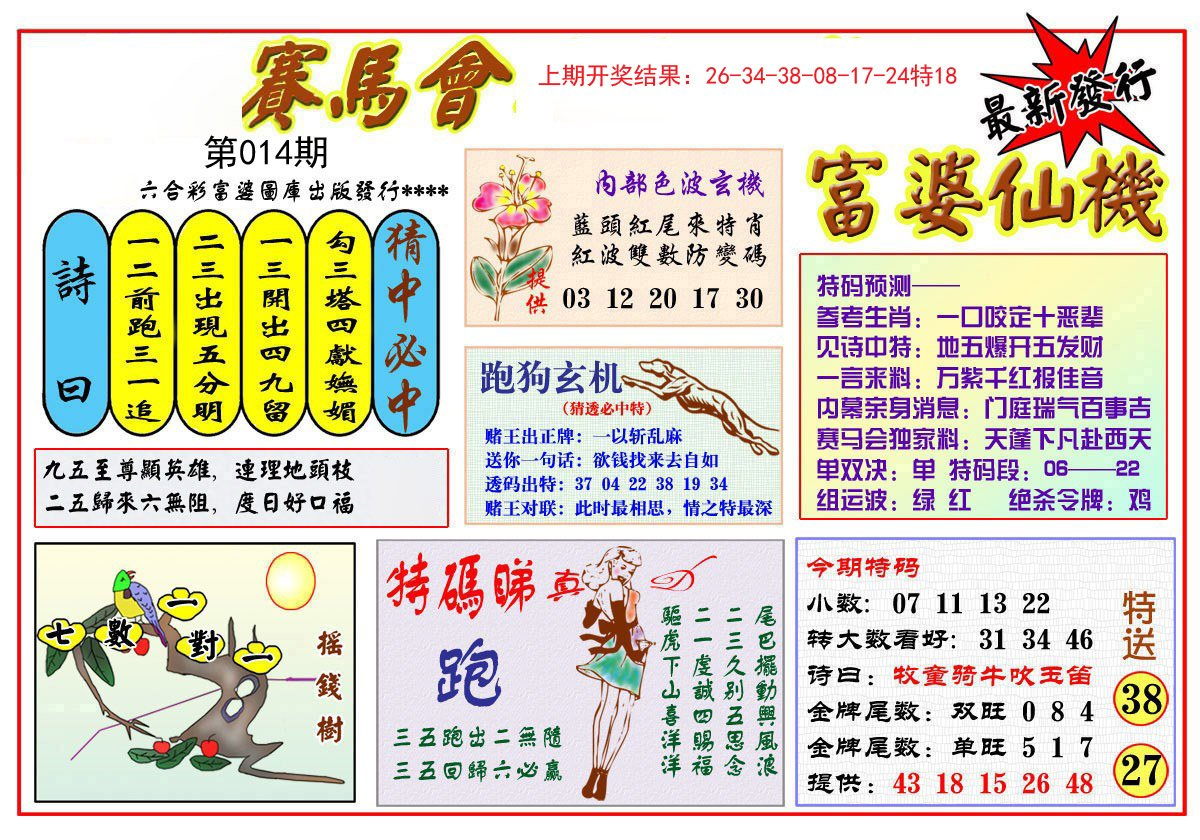
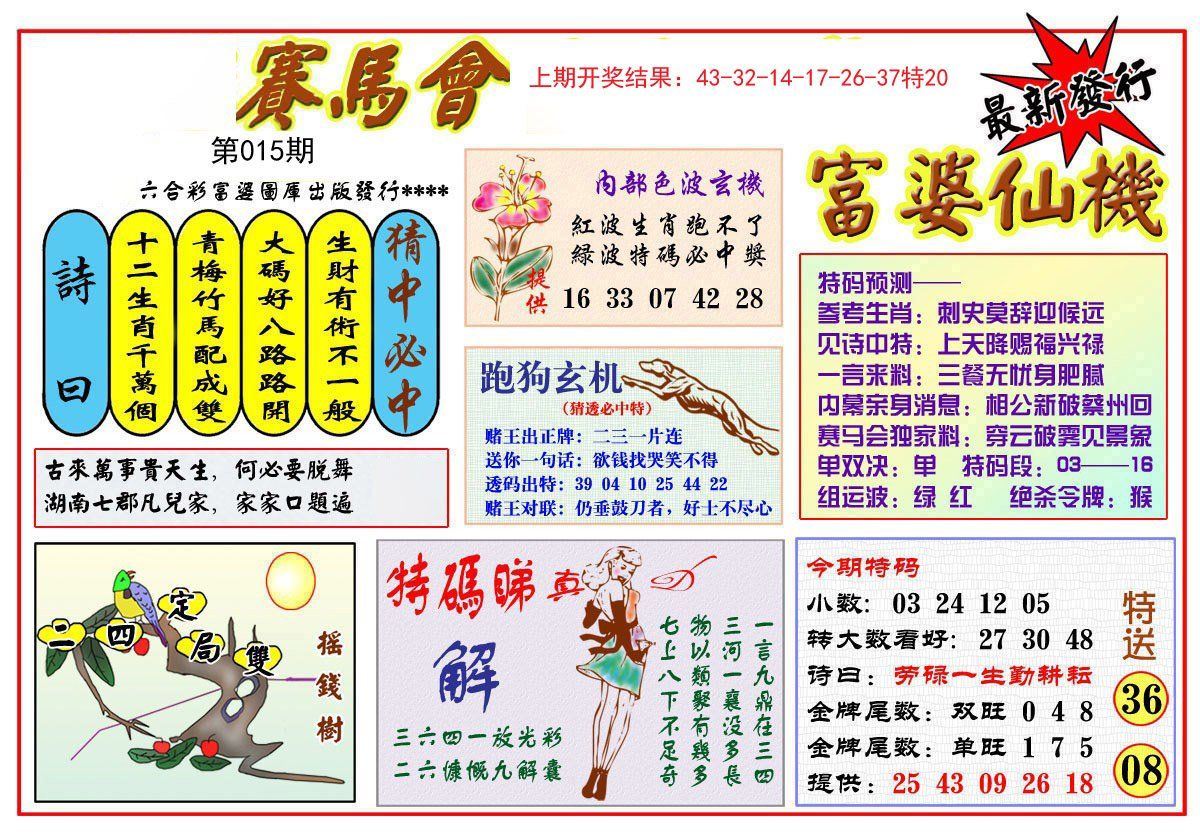
Update:  2024.01.15 12:22:49

diff --git a/Script/Src/xjw/杀两肖图.js b/Script/Src/xjw/杀两肖图.js
@@ -35,8 +35,8 @@ document.writeln("	");
 document.writeln("			<tr style=\'box-sizing: border-box;\'>");
 document.writeln("			<td height=\'40\' style=\'box-sizing: border-box;\'>");
 document.writeln("			");
-document.writeln("<a target=\'_blank\' href=\'https://49080.com/#/picture/28585\'><img src=\'https://tk2.zaojiao365.net:4949/col/14/c002.jpg\'  width=\'49%\'></a>");
-document.writeln("<a target=\'_blank\' href=\'https://49080.com/#/picture/209029\'><img src=\'https://tk2.zaojiao365.net:4949/col/14/hj44.jpg\'  width=\'49%\'></a>");
+document.writeln("<a target=\'_blank\' href=\'https://49080.com/#/picture/28585\'><img src=\'https://tk2.zaojiao365.net:4949/col/15/c002.jpg\'  width=\'49%\'></a>");
+document.writeln("<a target=\'_blank\' href=\'https://49080.com/#/picture/209029\'><img src=\'https://tk2.zaojiao365.net:4949/col/15/hj44.jpg\'  width=\'49%\'></a>");
 document.writeln("		</td></tr>");
 document.writeln("		");
 document.writeln("		");
@@ -58,9 +58,32 @@ document.writeln("				<tr style=\'box-sizing: border-box;\'>");
 document.writeln("					<td height=\'40\' style=\'box-sizing: border-box;\'>");
 document.writeln("			<p align=\'center\' style=\'box-sizing: border-box; padding: 0px; margin: 0px;\'>");
 document.writeln("			<font size=\'4\' style=\'margin: 0px; padding: 0px;\'>");
-document.writeln("			014期玄机网禁两肖<font color=\'#FF0000\'>【鼠蛇】</font>特开<font color=\'#0000FF\'>？00</font>准<br>");
-document.writeln("			014期澳门杀两肖图<font color=\'#FF0000\'>【蛇兔】</font>特开<font color=\'#0000FF\'>？00</font>准<br>");
-document.writeln("			014期澳门图库禁肖<font color=\'#FF0000\'>【鸡羊】</font>特开<font color=\'#0000FF\'>？00</font>准</font></font></p></td>");
+document.writeln("			015期玄机网禁两肖<font color=\'#FF0000\'>【鸡羊】</font>特开<font color=\'#0000FF\'>？00</font>准<br>");
+document.writeln("			015期澳门杀两肖图<font color=\'#FF0000\'>【牛猪】</font>特开<font color=\'#0000FF\'>？00</font>准<br>");
+document.writeln("			015期澳门图库禁肖<font color=\'#FF0000\'>【虎猴】</font>特开<font color=\'#0000FF\'>？00</font>准</font></font></p></td>");
+document.writeln("		</tr>");
+document.writeln("<!--推广-->");
+document.writeln("				<tr style=\'box-sizing: border-box;\'>");
+document.writeln("					<td height=\'40\' style=\'box-sizing: border-box;\' bgcolor=\'#FFFF00\'>");
+document.writeln("			<p align=\'center\' style=\'box-sizing: border-box; padding: 0px; margin: 0px;\'>");
+document.writeln("			<a target=\'_blank\' href=\'https://j.1999xz.com:1999/\' style=\'text-decoration: none\'><img src=/yyy123.gif style=\'width:20px\' height=\'19\'><span style=font-family:楷体;color:#00f><font style=\'font-size: 15pt\'>点击投注澳门六合彩</font></span><span style=font-family:楷体;font-size:17pt;><font color=\'#FF0000\'>1999.cc</font></span></a></strong>");
+document.writeln("</p></td></tr>");
+document.writeln("<!--结束-->	");
+document.writeln("");
+document.writeln("");
+
+
+document.writeln("	");
+document.writeln("");
+document.writeln("		");
+document.writeln("													<!--开始-->");
+document.writeln("				<tr style=\'box-sizing: border-box;\'>");
+document.writeln("					<td height=\'40\' style=\'box-sizing: border-box;\'>");
+document.writeln("			<p align=\'center\' style=\'box-sizing: border-box; padding: 0px; margin: 0px;\'>");
+document.writeln("			<font size=\'4\' style=\'margin: 0px; padding: 0px;\'>");
+document.writeln("			014期玄机网禁两肖<font color=\'#FF0000\'>【鼠蛇】</font>特开<font color=\'#0000FF\'>猴20</font>准<br>");
+document.writeln("			014期澳门杀两肖图<font color=\'#FF0000\'>【蛇兔】</font>特开<font color=\'#0000FF\'>猴20</font>准<br>");
+document.writeln("			014期澳门图库禁肖<font color=\'#FF0000\'>【鸡羊】</font>特开<font color=\'#0000FF\'>猴20</font>准</font></font></p></td>");
 document.writeln("		</tr>");
 document.writeln("<!--推广-->");
 document.writeln("				<tr style=\'box-sizing: border-box;\'>");
